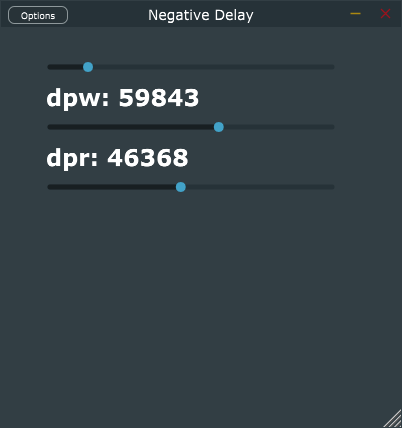
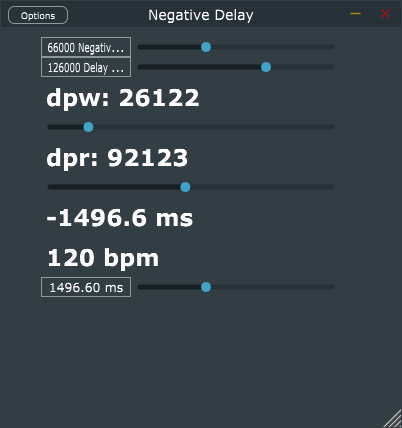
added a slider for inputting milisecond negative delay

diff --git a/Source/PluginEditor.cpp b/Source/PluginEditor.cpp
@@ -77,6 +77,17 @@ NegativeDelayAudioProcessorEditor::NegativeDelayAudioProcessorEditor (NegativeDe
 	bpmLabel_.setText("bpm", dontSendNotification);
 	addAndMakeVisible(&bpmLabel_);
 
+	millisecondsSlider_.setSliderStyle(Slider::LinearHorizontal);
+	millisecondsSlider_.setRange(0.0, (processor.pluginLatency_/processor.getSampleRate())*1000.0, 0.01);
+	millisecondsSlider_.setTextBoxStyle(Slider::TextBoxLeft, false, 90, millisecondsSlider_.getTextBoxHeight());
+	millisecondsSlider_.setTextValueSuffix(" ms");
+	millisecondsSlider_.setValue(0.0);
+
+	addAndMakeVisible(&millisecondsSlider_);
+
+	// add the listener to the slider
+	millisecondsSlider_.addListener(this);
+
 	startTimerHz(10);
 }
 
@@ -111,6 +122,8 @@ void NegativeDelayAudioProcessorEditor::resized()
 
 	millisecondsLabel_.setBounds(40,170,300,40);
 	bpmLabel_.setBounds(40, 210, 300, 40);
+
+	millisecondsSlider_.setBounds(40, 250, 300, 20);
 }
 
 void NegativeDelayAudioProcessorEditor::sliderValueChanged(Slider * slider)
@@ -119,6 +132,8 @@ void NegativeDelayAudioProcessorEditor::sliderValueChanged(Slider * slider)
 		processor.setDelayTime((int)(delayTimeSlider_.getValue()));
 	if (slider == &negativeDelayTimeSlider_) 
 		delayTimeSlider_.setValue(processor.pluginLatency_-negativeDelayTimeSlider_.getValue());
+	if (slider == &millisecondsSlider_)
+		negativeDelayTimeSlider_.setValue(millisecondsSlider_.getValue() * processor.getSampleRate()/1000.0);
 	millisecondsLabel_.setText("-"+String((negativeDelayTimeSlider_.getValue()/processor.getSampleRate()) * 1000)+" ms", dontSendNotification);
 }
 

diff --git a/Source/PluginEditor.h b/Source/PluginEditor.h
@@ -30,7 +30,7 @@ public:
 	void timerCallback() override;
 
 private:
-	void sliderValueChanged(Slider* slider) override; // what determines if an override is needed?
+	void sliderValueChanged(Slider* slider) override; 
 	void updateTimecodeDisplay(AudioPlayHead::CurrentPositionInfo);
 
     // This reference is provided as a quick way for your editor to
@@ -45,6 +45,7 @@ private:
 	Slider delayWritePositionSlider_;
 
 	Label millisecondsLabel_;
+	Slider millisecondsSlider_;
 	Label bpmLabel_;
     JUCE_DECLARE_NON_COPYABLE_WITH_LEAK_DETECTOR (NegativeDelayAudioProcessorEditor)
 };
